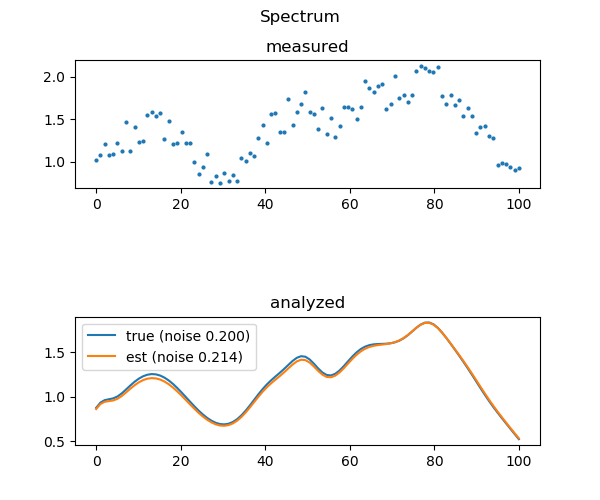
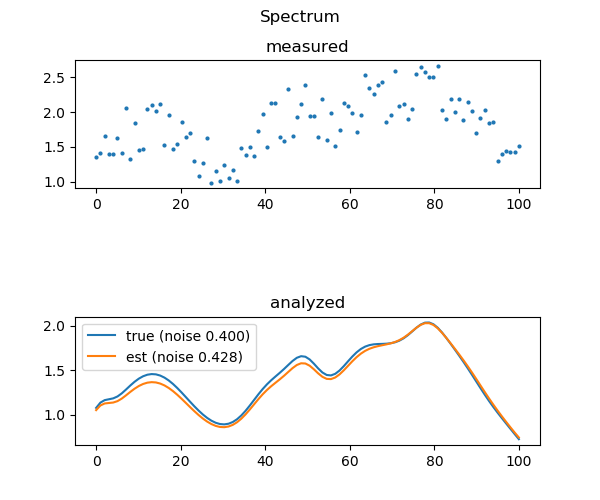
added a real command-line argument parser

diff --git a/sd.py b/sd.py
@@ -8,6 +8,7 @@
 # Spectral decomposition demo.
 
 import sys
+import argparse
 
 import numpy as np
 import matplotlib.pyplot as plt
@@ -15,11 +16,23 @@ import matplotlib.pyplot as plt
 import spectra
 import cvx
 
-# Set up seed for reproducibility.
-if len(sys.argv) > 1:
-    seed=int(sys.argv[1])
-else:
-    seed=np.random.randint(1, 101)
+# Process arguments.
+argp = argparse.ArgumentParser(
+    description="Power spectral decomposition demo.")
+argp.add_argument("--seed", type=int,
+                  default=np.random.randint(1, 100),
+                  help="PRNG seed (default randomly generated)")
+argp.add_argument("--noise", type=float,
+                  default=0,
+                  help="noise power level (default 0)")
+argp.add_argument("--save", action='store_true',
+                  help="save analysis artifacts to files")
+args = argp.parse_args()
+seed = args.seed
+noise = args.noise
+save = args.save
+
+# Set the seed.
 np.random.seed(seed)
 
 # Number of sample "bins" in detector.
@@ -28,8 +41,6 @@ nbins = 100
 width = 100
 # Number of spectra in dictionary.
 ndict = 5
-# Mean noise level for measurement.
-noise = 0.2
 
 # Make basis spectra and set up sampling.
 x = np.linspace(0, width, nbins)
@@ -42,7 +53,8 @@ for s in sdict:
     fig.add_subplot(5, 1, s.id+1, title=s.name)
     plt.plot(x, s.spectrum(x))
 fig.suptitle("Basis Spectra (seed {})".format(seed))
-fig.savefig("basis-{}.png".format(seed))
+if save:
+    fig.savefig("basis-{}.png".format(seed))
 
 # Basis amplitude (prevalence).
 ampl = np.random.random(size=ndict)
@@ -71,7 +83,8 @@ def report(fout=None):
 
 (ampl0, noise0, q) = cvx.decompose(bases, measured)
 report()
-report("analysis-{}.txt".format(seed))
+if save:
+    report("analysis-{}.txt".format(seed))
 spectrum0 = np.dot(ampl0, bases) + noise0
 
 # Plot analysis.
@@ -86,7 +99,8 @@ label = "est (noise {:.3f})".format(noise0)
 plt.plot(x, spectrum0, label=label)
 plt.legend()
 fig.suptitle("Spectrum")
-fig.savefig("spectrum-{}.png".format(seed))
+if save:
+    fig.savefig("spectrum-{}.png".format(seed))
 
 # Show all plots.
 plt.show()

diff --git a/README.md b/README.md
@@ -29,22 +29,30 @@ It is likely that `numpy` and `matplotlib` are available in
 a standard OS distro. All of the prerequisites can be
 installed via `pip3 install`.
 
-To run the program, just say `python3 sd.py`. Note that each
-run will generate a random number seed, which can be given
-on the command line to repeat a previous run.
+To run the program, you can just say `python3 sd.py`. Note
+that each run will generate a pseudo-random number generator
+seed, which can be given on the command line to repeat a
+previous run. You can set the noise level (which defaults to
+0). You can specify saving your analysis files to the
+current directory for later use. Say `python3 sd.py --help`
+for details.
 
 ## Example
 
-Let's try `python3 sd.py 27`. The analysis should complete
-quickly and print the following text:
+Let's try it:
+
+    python3 sd.py --seed=27 --noise=0.4
+
+The analysis should complete quickly and print the following
+text:
 
 ```
-analysis (q=1.169, noise=0.214 (0.200)):
-- olvium: 0.531 (0.547)
-- afqium: 0.782 (0.813)
-- emvium: 0.586 (0.608)
-- ecsium: 0.163 (0.191)
-- anpium: 0.230 (0.199)
+analysis (q=2.338, noise=0.428 (0.400)):
+- olvium: 0.516 (0.547)
+- afqium: 0.750 (0.813)
+- emvium: 0.564 (0.608)
+- ecsium: 0.135 (0.191)
+- anpium: 0.261 (0.199)
 ```
 
 Note that the basis spectra are given randomly-generated
